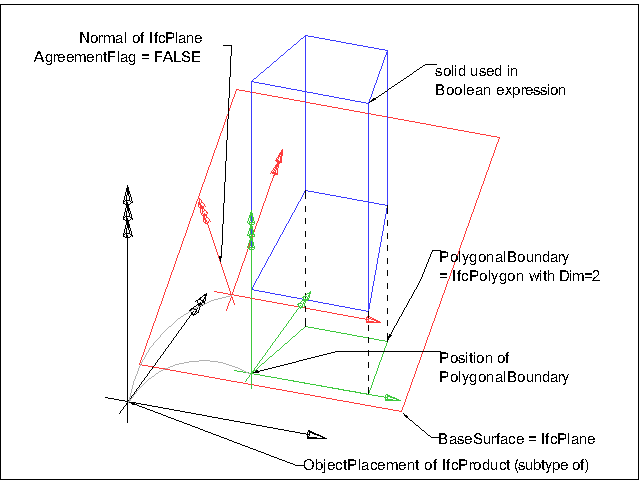
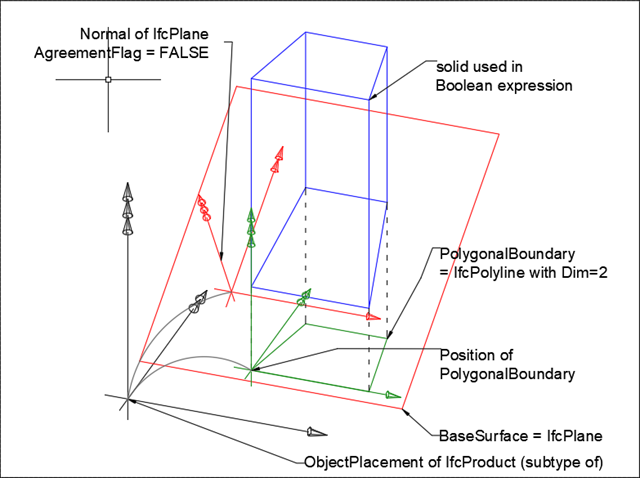
IfcPolygonalBoundedHalfSpace
Updated documentation and fixed error in figure

diff --git a/docs/schemas/resource/IfcGeometricModelResource/Entities/IfcPolygonalBoundedHalfSpace.md b/docs/schemas/resource/IfcGeometricModelResource/Entities/IfcPolygonalBoundedHalfSpace.md
@@ -1,10 +1,10 @@
 # IfcPolygonalBoundedHalfSpace
 
-The polygonal bounded half space is a special subtype of a half space solid, where the material of the half space used in Boolean expressions is bounded by a polygonal boundary. The base surface of the half space is positioned by its normal relative to the object coordinate system (as defined at the supertype _IfcHalfSpaceSolid_), and its polygonal (with or without arc segments) boundary is defined in the XY plane of the position coordinate system established by the _Position_ attribute, the subtraction body is extruded perpendicular to the XY plane of the position coordinate system, that is, into the direction of the positive Z axis defined by the _Position_ attribute.
+The polygonal bounded half space is a special subtype of a half space solid, where the material of the half space used in Boolean expressions is bounded by a two-dimensional boundary. The base surface of the half space is positioned by its normal relative to the object coordinate system (as defined at the supertype _IfcHalfSpaceSolid_), and its boundary (with straight and arc segments) is defined in the XY plane of the position coordinate system established by the _Position_ attribute, the subtraction body is extruded perpendicular to the XY plane of the position coordinate system, that is, into the direction of the positive Z axis defined by the _Position_ attribute.
 
-The boundary is defined by a 2 dimensional polyline (or 2 dimensional composite curve, consisting of straight segments and circular arc segments) within the XY plane of the position coordinate system. The side of the surface which is in the half space is determined by the surface normal and the agreement flag. If the agreement flag is TRUE, then the subset is the one the normal points away from. If the agreement flag is FALSE, then the subset is the one the normal points into.
+The boundary is defined by a 2 dimensional polyline (or 2 dimensional composite curve, consisting of straight segments and circular arc segments, or indexed poly curve) within the XY plane of the position coordinate system. The side of the surface which is in the half space is determined by the surface normal and the agreement flag. If the agreement flag is TRUE, then the subset is the one the normal points away from. If the agreement flag is FALSE, then the subset is the one the normal points into.
 
-> NOTE  A polygonal bounded half space is not a subtype of _IfcSolidModel_, half space solids are only useful as operands in Boolean expressions.
+> NOTE  A polygonal bounded half space is not a subtype of _IfcSolidModel_, half space solids are only useful as operands in Boolean expressions. The term _IfcPolygonalBoundedHalfSpace_ was coined when only curves of type _IfcPolyline_ were allowed as boundary definitions.
 
 Figure 1 illustrates a polygonal bounded half space.
 
@@ -33,11 +33,11 @@ Informal Propositions:
 ## Attributes
 
 ### Position
-Definition of the position coordinate system for the bounding polyline ~~and the base surface~~.
+Definition of the position coordinate system for the two-dimensional boundary.
 
 ### PolygonalBoundary
-Two-dimensional ~~polyline~~ bounded curve, defined in the xy plane of the position coordinate system.
-{ .change-ifc2x3}
+Two-dimensional bounded curve, defined in the xy plane of the position coordinate system.
+
 > IFC2x3 CHANGE  The attribute type has been changed from _IfcPolyline_ to its supertype _IfcBoundedCurve_ with upward compatibility for file based exchange.
 
 ## Formal Propositions
@@ -46,4 +46,4 @@ Two-dimensional ~~polyline~~ bounded curve, defined in the xy plane of the posit
 The bounding polyline should have the dimensionality of 2.
 
 ### BoundaryType
-Only bounded curves of type _IfcCompositeCurve_, or _IfcPolyline_ are valid boundaries.
+Only bounded curves of type _IfcCompositeCurve_, _IfcPolyline_, and _IfcIndexedPolyCurve_  are valid boundary curves.
